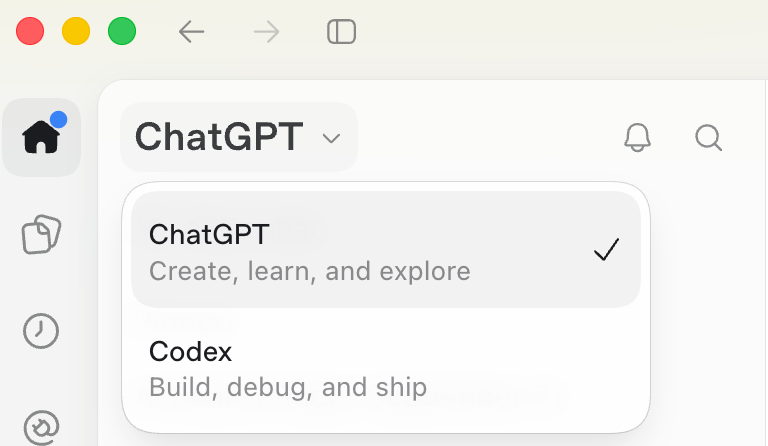
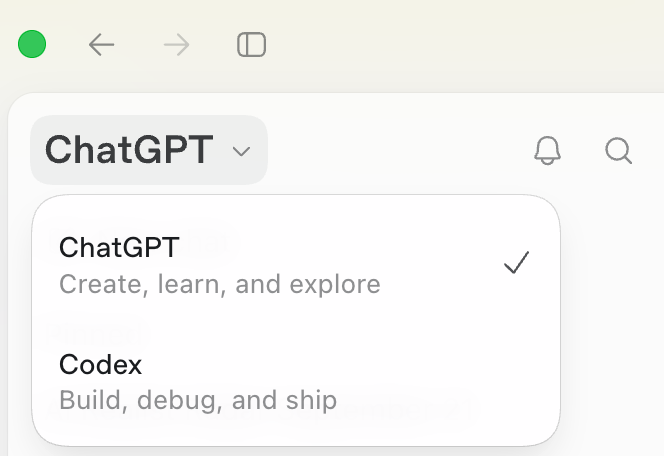
Setup guide: screenshots for Codex and the browser extension
Cleaner ChatGPT/Codex menu screenshot, chrome://extensions with the
ChatGPT and Claude switches on, and the toolbar with both extensions
pinned. Packaged versions from ktoetotam/AIRealistWebsite#17.

diff --git a/guides/setup.md b/guides/setup.md
@@ -81,6 +81,7 @@ Chrome not listed under Computer Use? The feature can depend on rollout; Codex c
 The extension works in your signed-in browser and can see the sites you are logged into. If you are unsure, create a separate Chrome profile for the workshop and install the extension there.
 
 </div>
+<figure class="setup-shot" style="grid-column:1 / -1;max-width:760px;width:100%;justify-self:center"><a href="../assets/setup/chrome-extensions-on.png"><img src="../assets/setup/chrome-extensions-on.png" width="1664" height="462" alt="Two extension cards on chrome://extensions: ChatGPT, Control your browser with ChatGPT, and Claude, Claude in Chrome. Each card has Details and Remove buttons and a blue switch at the bottom right, which means the extension is on."></a><a href="../assets/setup/chrome-extensions-pinned.png" style="margin-top:12px"><img src="../assets/setup/chrome-extensions-pinned.png" width="1192" height="112" alt="Chrome's toolbar with chrome://extensions typed in the address bar. To the right are the pinned Claude and ChatGPT icons, next to the puzzle-piece Extensions icon."></a><figcaption>On <code>chrome://extensions</code> each switch is <strong>blue</strong>. Once pinned, the Claude and ChatGPT icons sit next to the puzzle-piece icon.</figcaption></figure>
 </section>
 
 <section class="setup-step" aria-labelledby="open-workspace" markdown="1">
@@ -96,7 +97,7 @@ The extension works in your signed-in browser and can see the sites you are logg
 4. Click **Add folder**, choose the extracted **agentic-ai-masterclass** folder, then click **Create project**.
 
 </div>
-<figure class="setup-shot"><a href="../assets/setup/choose-codex.png"><img src="../assets/setup/choose-codex.png" width="768" height="446" alt="The ChatGPT desktop app with the product menu at the top left open. It lists ChatGPT, Create, learn, and explore, and Codex, Build, debug, and ship."></a><figcaption>Click <strong>ChatGPT ⌄</strong> at the top left and choose <strong>Codex</strong>. ChatGPT desktop app, 5 October 2026.</figcaption></figure>
+<figure class="setup-shot"><a href="../assets/setup/choose-codex.png"><img src="../assets/setup/choose-codex.png" width="664" height="456" alt="The ChatGPT desktop app with the product menu at the top left open. It lists ChatGPT, Create, learn, and explore, and Codex, Build, debug, and ship."></a><figcaption>Click <strong>ChatGPT ⌄</strong> at the top left and choose <strong>Codex</strong>. ChatGPT desktop app, 5 October 2026.</figcaption></figure>
 <figure class="setup-shot" style="grid-column:1 / -1;max-width:760px;width:100%;justify-self:center"><a href="../assets/setup/create-project.png"><img src="../assets/setup/create-project.png" width="1020" height="632" alt="Create project dialog with the name Agentic AI Masterclass, the agentic-ai-masterclass source folder, Add folder, and Create project."></a><figcaption>Name your project, add the extracted folder, then click <strong>Create project</strong>.</figcaption></figure>
 </section>
 
